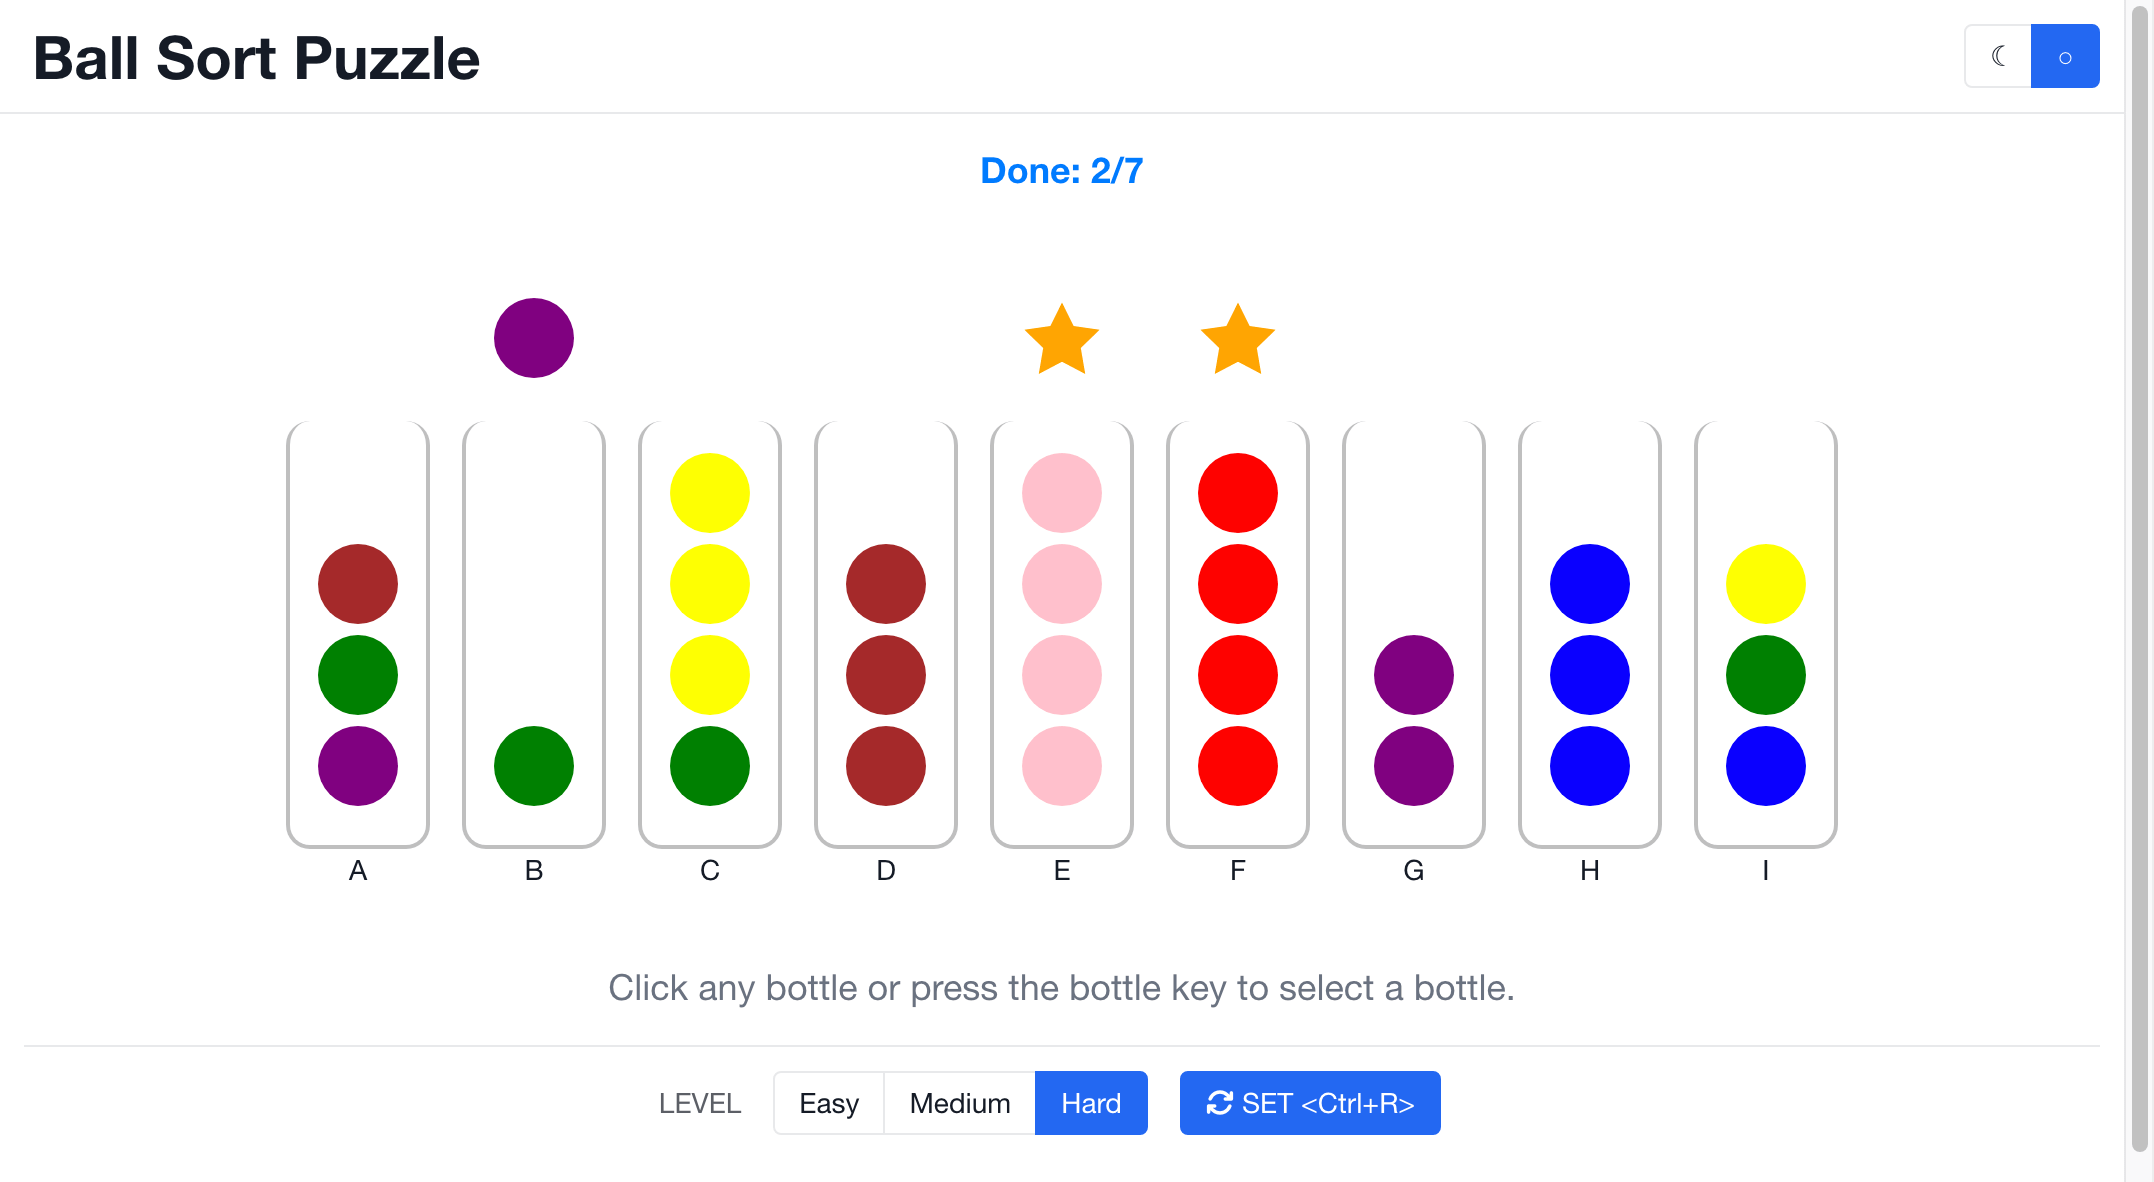
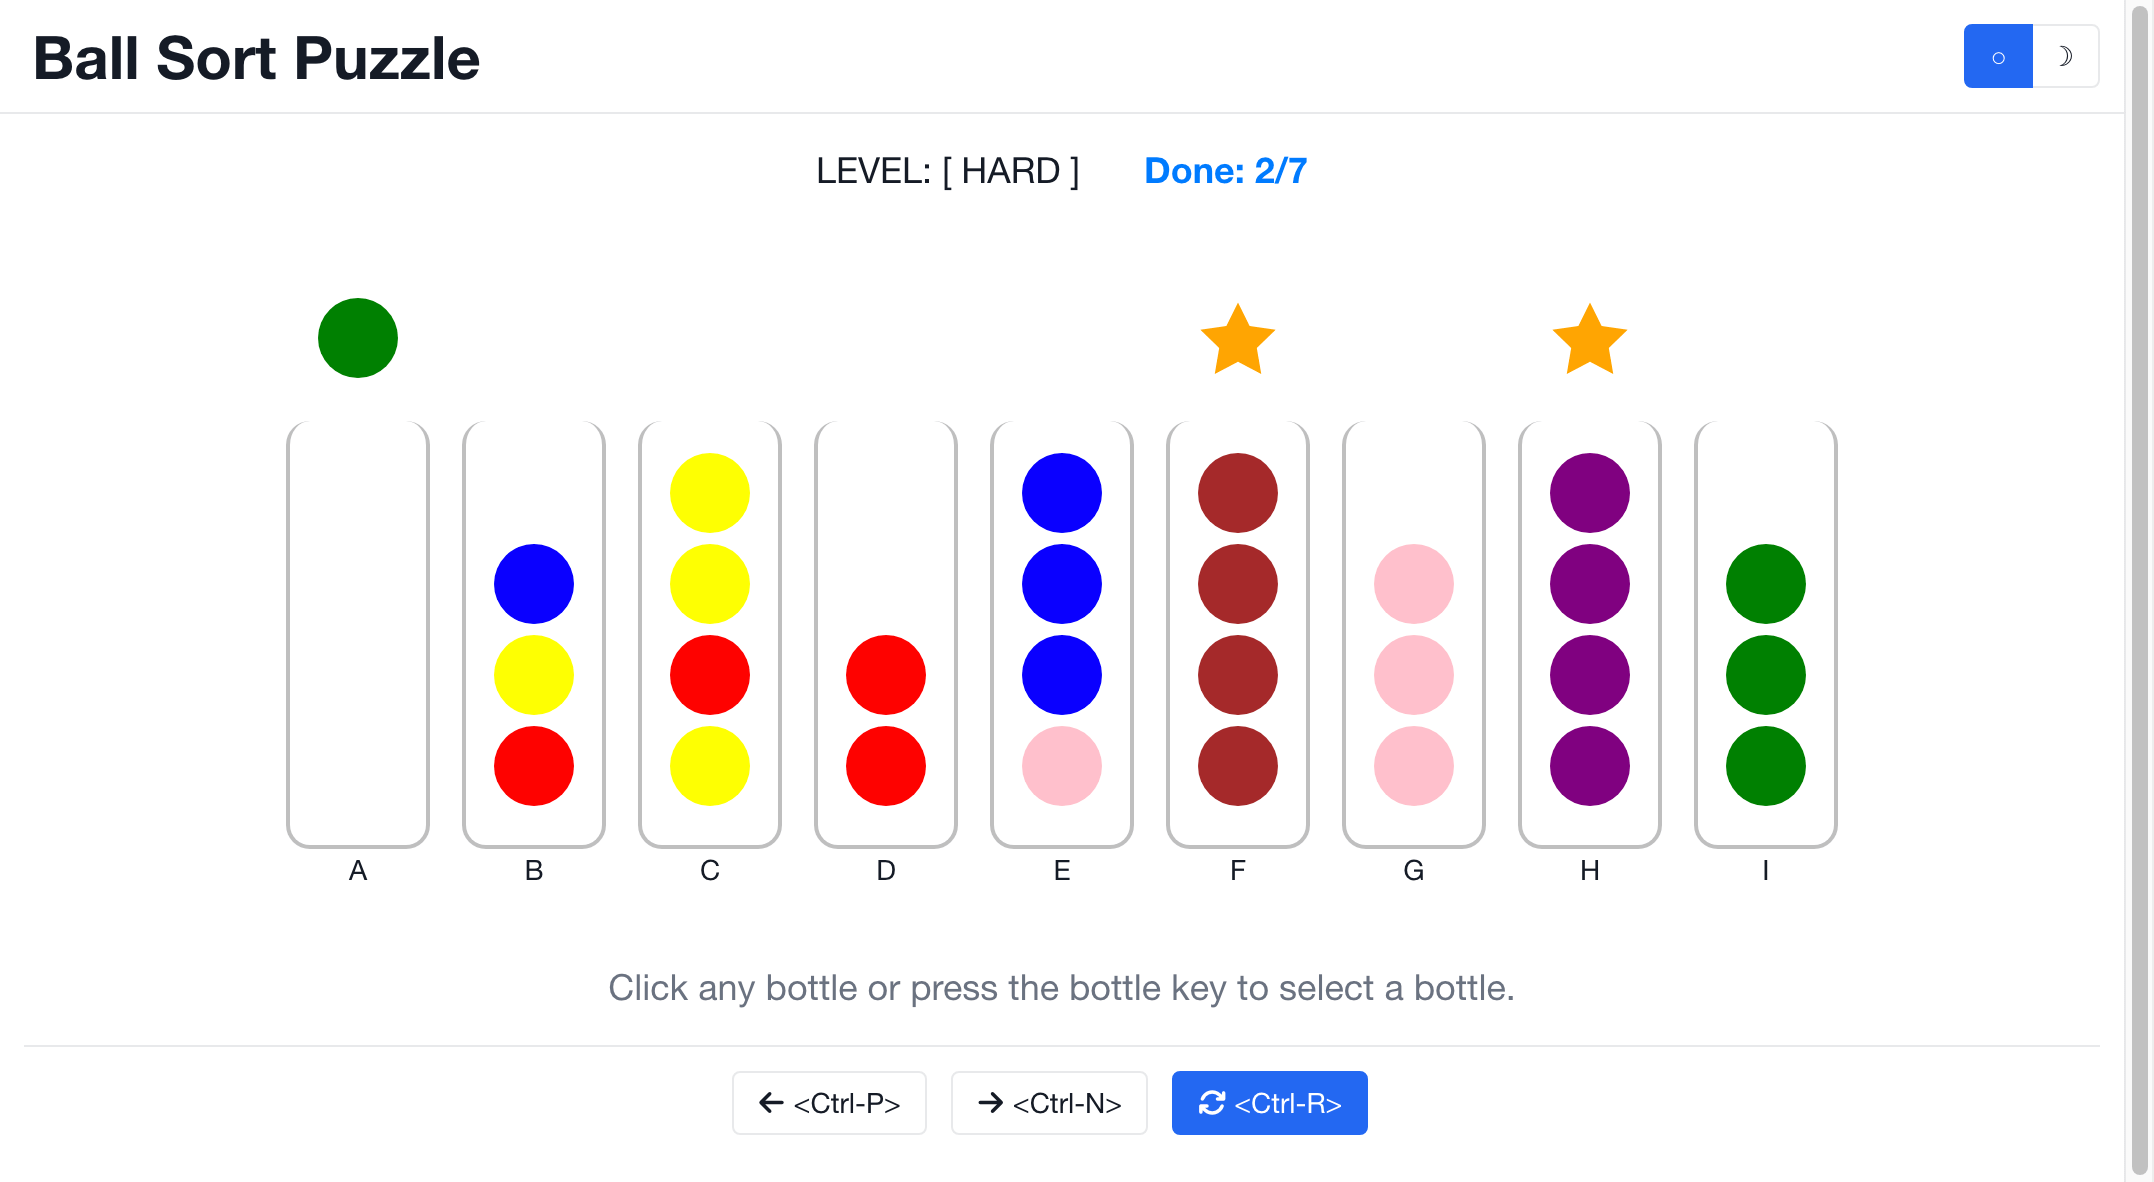
update ui of bal-sort

diff --git a/ball-sort/game.go b/ball-sort/game.go
@@ -22,27 +22,29 @@ const (
 	bottleButtonClass = "absolute inset-0 h-full rounded-xl bottle-button"
 )
 
-var (
-	colors = []string{
-		"red", "green", "blue", "yellow", "brown", "pink", "purple",
-	}
-	succeedMsgs = []string{
-		"Wanderful!", "Brilliant!", "Excellent!", "Fantastic!", "Awesome!",
-	}
-	LevelBottlesDict = map[string]int{
-		LevelEasy:   5,
-		LevelMedium: 6,
-		LevelHard:   7,
-	}
-)
+var succeedMsgs = []string{
+	"Wanderful!", "Brilliant!", "Excellent!", "Fantastic!", "Awesome!",
+}
+
+var levels = []Level{
+	{Name: LevelEasy, Bottles: 5},
+	{Name: LevelMedium, Bottles: 6},
+	{Name: LevelHard, Bottles: 7},
+}
 
 type Game struct {
 	rd *rand.Rand
 	*amisgo.App
-	Level            string
+	levelIndex       int
 	Bottles          []*Bottle
 	ShiftBall        *Ball
 	DoneBottlesCount int
+	colors           []string
+}
+
+type Level struct {
+	Name    string
+	Bottles int
 }
 
 type Bottle struct {
@@ -59,19 +61,21 @@ type Ball struct {
 
 func NewGame(app *amisgo.App) *Game {
 	res := &Game{
-		Level: LevelEasy,
-		App:   app,
-		rd:    rand.New(rand.NewSource(time.Now().UnixNano())),
+		App: app,
+		rd:  rand.New(rand.NewSource(time.Now().UnixNano())),
+		colors: []string{
+			"red", "green", "blue", "yellow", "brown", "pink", "purple",
+		},
 	}
 	res.Reset()
 	return res
 }
 
 func (g *Game) Reset() {
-	g.rd.Shuffle(len(colors), func(i, j int) {
-		colors[i], colors[j] = colors[j], colors[i]
+	g.rd.Shuffle(len(g.colors), func(i, j int) {
+		g.colors[i], g.colors[j] = g.colors[j], g.colors[i]
 	})
-	n := LevelBottlesDict[g.Level]
+	n := levels[g.levelIndex].Bottles
 	balls := make([]*Ball, 0, n*BottleBallCount)
 	for i := range n {
 		for range BottleBallCount {
@@ -109,9 +113,22 @@ func (g *Game) Reset() {
 	g.DoneBottlesCount = 0
 }
 
-func (g *Game) SetLevel(level string) {
-	g.Level = level
-	g.Reset()
+func (g *Game) PrevLevel() {
+	if g.levelIndex > 0 {
+		g.levelIndex--
+		g.Reset()
+	}
+}
+
+func (g *Game) NextLevel() {
+	if g.levelIndex < len(levels)-1 {
+		g.levelIndex++
+		g.Reset()
+	}
+}
+
+func (g *Game) CurrentLevel() Level {
+	return levels[g.levelIndex]
 }
 
 func (g *Game) SelectBottle(i int) {
@@ -150,7 +167,7 @@ func (g *Game) SelectBottle(i int) {
 }
 
 func (g *Game) IsDone() bool {
-	return g.DoneBottlesCount == LevelBottlesDict[g.Level]
+	return g.DoneBottlesCount == levels[g.levelIndex].Bottles
 }
 
 func (g *Game) StateInfo() (info, infoClass string) {
@@ -158,7 +175,7 @@ func (g *Game) StateInfo() (info, infoClass string) {
 		info = succeedMsgs[game.rd.Intn(len(succeedMsgs))]
 		infoClass = "text-2xl font-bold text-success"
 	} else {
-		info = fmt.Sprintf("Done: %d/%d", game.DoneBottlesCount, LevelBottlesDict[g.Level])
+		info = fmt.Sprintf("Done: %d/%d", game.DoneBottlesCount, levels[g.levelIndex].Bottles)
 		infoClass = "text-xl font-bold text-info"
 	}
 	return
@@ -267,7 +284,7 @@ func (b *Bottle) UI() any {
 }
 
 func (b *Ball) Color() string {
-	return colors[b.Type]
+	return b.Game.colors[b.Type]
 }
 
 func (b *Ball) UI() comp.Shape {

diff --git a/ball-sort/main.go b/ball-sort/main.go
@@ -3,8 +3,10 @@ package main
 import (
 	_ "embed"
 	"fmt"
+	"strings"
 
 	"github.com/zrcoder/amisgo"
+	"github.com/zrcoder/amisgo/comp"
 	"github.com/zrcoder/amisgo/conf"
 	"github.com/zrcoder/amisgo/schema"
 )
@@ -20,8 +22,8 @@ var customCSS string
 func main() {
 	app = amisgo.New(
 		conf.WithThemes(
-			conf.Theme{Value: conf.ThemeDark, Label: "☾"},
 			conf.Theme{Value: conf.ThemeCxd, Label: "○"},
+			conf.Theme{Value: conf.ThemeDark, Label: "☽"},
 		),
 		conf.WithCustomCSS(customCSS),
 	)
@@ -39,41 +41,61 @@ func main() {
 				info, infoClass := game.StateInfo()
 				return map[string]any{
 					"game-ui":   ui,
-					"level":     game.Level,
+					"level":     strings.ToTitle(game.CurrentLevel().Name),
 					"info":      info,
 					"infoClass": infoClass,
 				}, nil
 			}).Body(
-				app.Flex().Items(app.Tpl().Tpl("${info}").ClassName("${infoClass}")),
-				app.Wrapper(),
 				app.Flex().Items(
-					app.Amis().Name("game-ui"),
+					app.Tpl().Tpl("LEVEL: [ $level ]").ClassName("text-xl"),
+					app.Wrapper(),
+					app.Tpl().Tpl("${info}").ClassName("${infoClass}"),
 				),
 				app.Wrapper(),
-				app.Flex().Items(),
+				app.Flex().Items(app.Amis().Name("game-ui")),
+				app.Wrapper(),
 				app.Flex().Items(
 					app.Tpl().Tpl("Click any bottle or press the bottle key to select a bottle.").ClassName("text-xl text-gray-500"),
 				),
 				app.Divider(),
-				app.Flex().Items(
-					app.Form().Mode("inline").WrapWithPanel(false).Submit(
-						func(s schema.Schema) error {
-							game.SetLevel(s.Get("level").(string))
-							return nil
-						},
-					).Body(
-						app.ButtonGroupSelect().Label("LEVEL").Name("level").Options(
-							app.Option().Label("Easy").Value("easy"),
-							app.Option().Label("Medium").Value("medium"),
-							app.Option().Label("Hard").Value("hard"),
-						),
-						app.Button().Label("SET <Ctrl+R>").Primary(true).Icon("fa fa-refresh").ActionType("submit").Reload("game").HotKey("ctrl+r"),
-					),
-				),
+				app.Flex().Items(levelForm(-1), levelForm(1), levelForm(0)),
 			),
 		)
 	app.Mount("/", index)
 
 	fmt.Println("Server started at http://localhost:3000")
 	panic(app.Run(":3000"))
+}
+
+func levelForm(delta int) comp.Form {
+	var label, icon, hotkey string
+	var action func()
+	var primary bool
+	switch delta {
+	case 1:
+		label = "<Ctrl-N>"
+		icon = "fa fa-arrow-right"
+		hotkey = "ctrl+n"
+		action = game.NextLevel
+	case -1:
+		label = "<Ctrl-P>"
+		icon = "fa fa-arrow-left"
+		hotkey = "ctrl+p"
+		action = game.PrevLevel
+	default:
+		label = "<Ctrl-R>"
+		icon = "fa fa-refresh"
+		hotkey = "ctrl+r"
+		action = game.Reset
+		primary = true
+	}
+	return app.Form().Mode("inline").WrapWithPanel(false).Submit(
+		func(s schema.Schema) error {
+			action()
+			return nil
+		}).
+		Body(
+			app.Button().Label(label).Icon(icon).Primary(primary).
+				ActionType("submit").Reload("game").HotKey(hotkey),
+		)
 }
